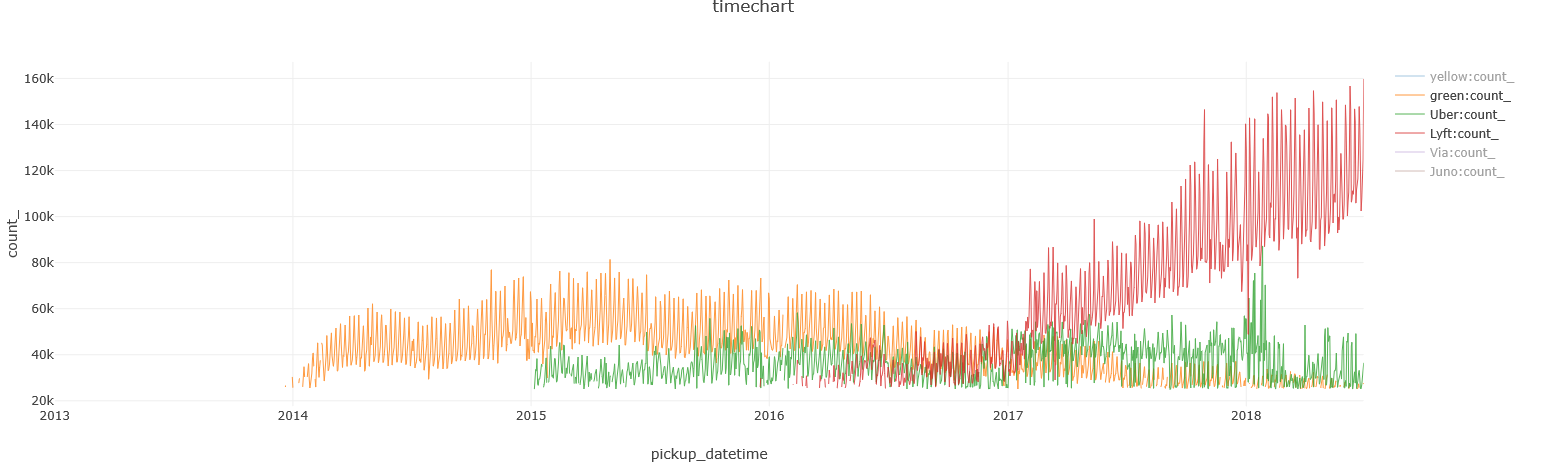
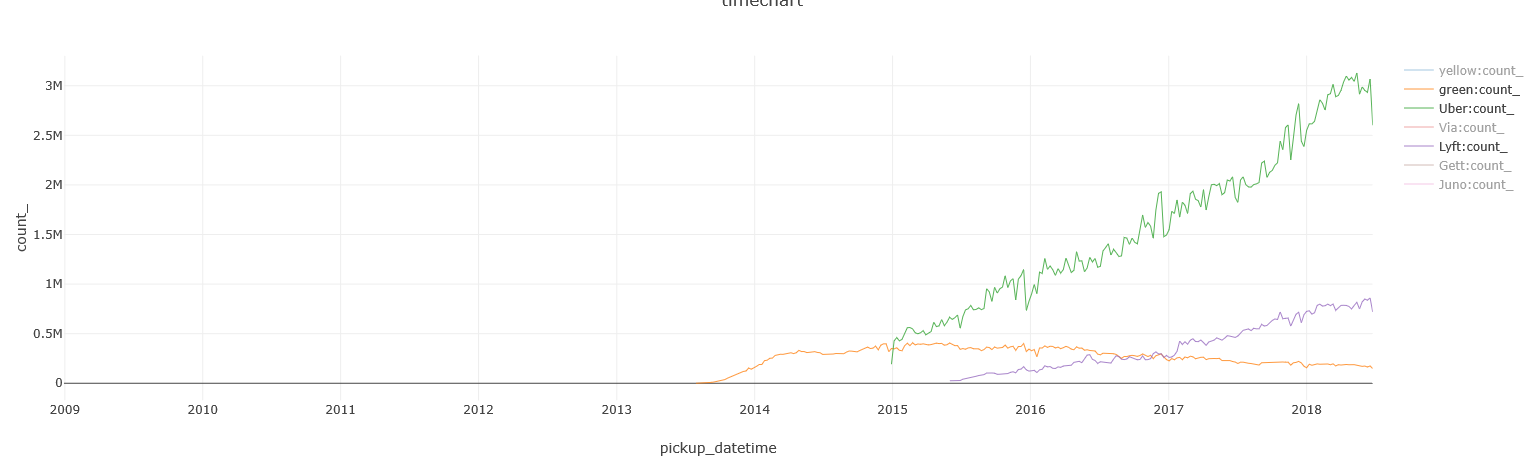
update NYC taxi analysis

diff --git a/blog-posts/analyzing-nyc-taxi-rides.md b/blog-posts/analyzing-nyc-taxi-rides.md
@@ -185,12 +185,11 @@ Later on, FHVs became increasingly popular, taking a swing at both the Yellow ca
 
 ![](../resources/images/nyc-taxi-uber-and-lyft-vs-green.png)
 
-Lyft's growth seems to be hiking up since 2017, and a few smaller players have also entered NYC
-in recent years:
+Uber and Lyft's growth seems to be hiking up nicely since 2015, and a few smaller players have also entered NYC in recent years:
 
 ![](../resources/images/nyc-taxi-via-juno-lyft.png)
 
-Tying them all together, show Yellow cabs and Green taxis are continuing their decline, and Lyft growing at a faster pace than all other FHVs:
+Tying them all together, show Yellow cabs and Green taxis are continuing their decline, and Uber growing at a faster pace than all other FHVs, with Lyft coming in second:
 
 ![](../resources/images/nyc-taxi-overall-count-over-time.png)
 
@@ -201,7 +200,7 @@ Here's the query I used to render this time chart:
 union 
 (
     Trips
-    | where pickup_datetime between(datetime(2014-01-01) .. datetime(2018-07-01))
+    | where pickup_datetime between(datetime(2009-01-01) .. datetime(2018-07-01))
     | summarize count() by Type = cab_type, bin(pickup_datetime, 7d)
 ),(
     MemberBase // Small dimension table; Data taken from: http://www.nybcf.org/members/ 
@@ -214,12 +213,10 @@ union
     | join hint.strategy = broadcast 
     (
         FHV_Trips
-        | where pickup_datetime between(datetime(2014-01-01) .. datetime(2018-07-01))
-        | summarize count() by Base = Dispatching_base_num, bin(pickup_datetime, 7d)
-        | where count_ > 25000 // filtering out the smaller players
-    ) on Base
-    | project-away Base, Base1 
-    | project-rename Type = Name
+        | where pickup_datetime between(datetime(2009-01-01) .. datetime(2018-07-01))
+    ) on $left.Base == $right.Dispatching_base_num 
+    | summarize count() by Type = Name, bin(pickup_datetime, 7d)
+    | where count_ > 25000 // filtering out the smaller players
 )
 | render timechart
 ```
